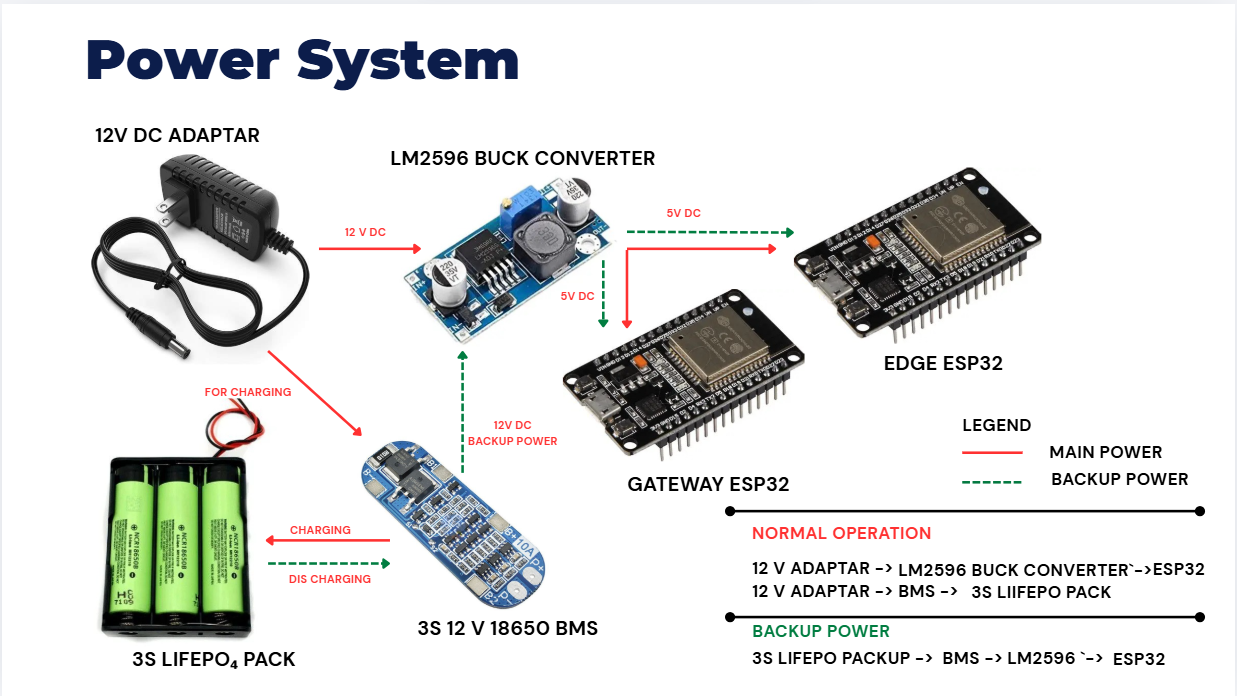
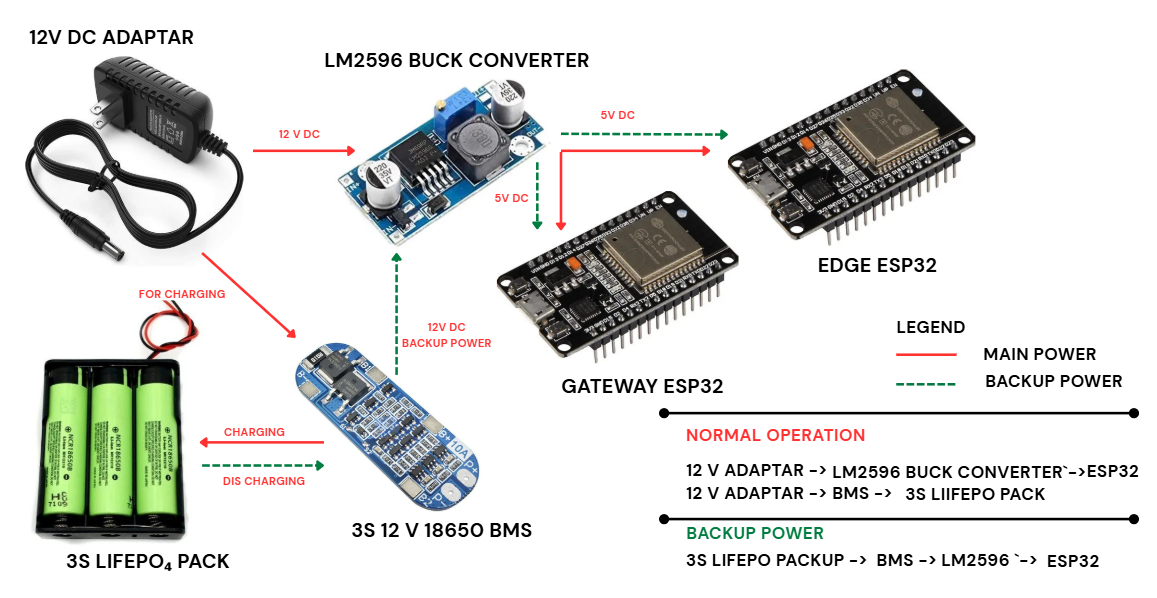
feat: add technology stack documentation and architecture visualization components

diff --git a/src/components/HardwareSoftware.tsx b/src/components/HardwareSoftware.tsx
@@ -1,8 +1,24 @@
 import React, { useState } from 'react';
-import { Cpu, Code2, Lock, Zap } from 'lucide-react';
+import { Cpu, Code2, ChevronLeft, ChevronRight } from 'lucide-react';
 
 export const HardwareSoftware: React.FC = () => {
   const [activeTab, setActiveTab] = useState<'hardware' | 'software'>('hardware');
+  const [powerSlideIndex, setPowerSlideIndex] = useState<number>(0);
+
+  const powerSlides = [
+    {
+      title: 'Hardware Power System Wiring Schematic 1',
+      src: '/assets/device power system/Screenshot 2026-09-07 110119.png'
+    },
+    {
+      title: 'Hardware Power System Wiring Schematic 2',
+      src: '/assets/device power system/Screenshot 2026-09-07 110143.png'
+    },
+    {
+      title: 'Hardware Power System Wiring Schematic 3',
+      src: '/assets/device power system/Screenshot 2026-09-07 110108.png'
+    }
+  ];
 
   const hardwareItems = [
     { name: 'ESP32 Microcontroller', role: 'Edge Core & Gateway', specs: 'Dual-core 240MHz · 5V VIN · 150–200mA' },
@@ -86,19 +102,53 @@ export const HardwareSoftware: React.FC = () => {
               ))}
             </div>
 
-            {/* Power Wiring Schematic */}
-            <div className="bg-slate-50 p-6 rounded-3xl border border-slate-200 shadow-sm">
-              <div className="flex items-center gap-2 text-xs font-bold text-amber-700 uppercase tracking-wider mb-1">
-                <Zap className="w-4 h-4" />
-                Uninterruptible Failover Architecture
+            {/* Power Wiring Schematic & Power Consumption Table Interactive Slider Card */}
+            <div className="bg-slate-50 p-6 sm:p-8 rounded-3xl border border-slate-200 shadow-sm">
+              <div className="mb-4">
+                <h4 className="text-lg font-extrabold text-slate-900">Hardware Power System & Power Consumption Table</h4>
               </div>
-              <h4 className="text-lg font-bold text-slate-900 mb-4">Hardware Power System Schematic</h4>
-              <div className="rounded-2xl overflow-hidden bg-white border border-slate-200">
+
+              {/* Sliding Image Container */}
+              <div className="rounded-2xl overflow-hidden bg-white border border-slate-200 p-2 sm:p-4 relative group">
                 <img
-                  src="/assets/device power system/Screenshot 2026-09-07 110108.png"
-                  alt="CluckNet Power Wiring Schematic"
-                  className="w-full h-auto object-contain max-h-[360px] mx-auto hover:scale-105 transition-transform duration-500"
+                  src={powerSlides[powerSlideIndex].src}
+                  alt={powerSlides[powerSlideIndex].title}
+                  className="w-full h-auto object-contain max-h-[520px] mx-auto hover:scale-[1.01] transition-transform duration-500 rounded-xl"
                 />
+
+                {/* Left Arrow Button */}
+                <button
+                  onClick={() => setPowerSlideIndex((prev) => (prev === 0 ? powerSlides.length - 1 : prev - 1))}
+                  className="absolute left-4 top-1/2 -translate-y-1/2 p-2.5 rounded-full bg-slate-900/60 text-white hover:bg-emerald-600 transition-all shadow-md active:scale-95 backdrop-blur-sm"
+                  title="Previous Diagram"
+                >
+                  <ChevronLeft className="w-5 h-5" />
+                </button>
+
+                {/* Right Arrow Button */}
+                <button
+                  onClick={() => setPowerSlideIndex((prev) => (prev === powerSlides.length - 1 ? 0 : prev + 1))}
+                  className="absolute right-4 top-1/2 -translate-y-1/2 p-2.5 rounded-full bg-slate-900/60 text-white hover:bg-emerald-600 transition-all shadow-md active:scale-95 backdrop-blur-sm"
+                  title="Next Diagram"
+                >
+                  <ChevronRight className="w-5 h-5" />
+                </button>
+
+                {/* Sliding Dot Navigation Indicators */}
+                <div className="flex justify-center items-center gap-2 mt-4 pt-3 border-t border-slate-100">
+                  {powerSlides.map((_, idx) => (
+                    <button
+                      key={idx}
+                      onClick={() => setPowerSlideIndex(idx)}
+                      className={`h-2.5 rounded-full transition-all duration-300 ${
+                        powerSlideIndex === idx
+                          ? 'w-8 bg-emerald-600'
+                          : 'w-2.5 bg-slate-300 hover:bg-slate-400'
+                      }`}
+                      title={`Switch to Diagram ${idx + 1}`}
+                    />
+                  ))}
+                </div>
               </div>
             </div>
           </div>
@@ -126,16 +176,12 @@ export const HardwareSoftware: React.FC = () => {
 
             {/* Security Architecture Diagram */}
             <div className="bg-slate-50 p-6 rounded-3xl border border-slate-200 shadow-sm">
-              <div className="flex items-center gap-2 text-xs font-bold text-emerald-700 uppercase tracking-wider mb-1">
-                <Lock className="w-4 h-4" />
-                Multi-Layer Telemetry Security
-              </div>
               <h4 className="text-lg font-bold text-slate-900 mb-4">Software Security & Auth Architecture</h4>
-              <div className="rounded-2xl overflow-hidden bg-white border border-slate-200">
+              <div className="rounded-2xl overflow-hidden bg-white border border-slate-200 p-2 sm:p-4">
                 <img
                   src="/assets/security.png"
                   alt="CluckNet Security Architecture Diagram"
-                  className="w-full h-auto object-contain max-h-[360px] mx-auto hover:scale-105 transition-transform duration-500"
+                  className="w-full h-auto object-contain max-h-[480px] mx-auto hover:scale-[1.01] transition-transform duration-500 rounded-xl"
                 />
               </div>
             </div>

diff --git a/src/components/SolutionArchitecture.tsx b/src/components/SolutionArchitecture.tsx
@@ -152,16 +152,15 @@ export const SolutionArchitecture: React.FC = () => {
 
         {/* Architecture Diagram Image Box */}
         <div className="bg-white p-4 sm:p-6 rounded-3xl border border-slate-200 mb-12 shadow-sm overflow-hidden">
-          <div className="text-xs font-bold text-slate-500 uppercase tracking-wider mb-4 flex items-center justify-between">
+          <div className="text-xs font-bold text-slate-500 uppercase tracking-wider mb-4">
             <span>Verified System Architecture Diagram</span>
-            <span className="text-emerald-700 font-mono font-bold">AWS IoT Core + Spring Boot</span>
           </div>
 
-          <div className="rounded-2xl overflow-hidden bg-slate-50 border border-slate-200">
+          <div className="rounded-2xl overflow-hidden bg-slate-50 border border-slate-200 p-2 sm:p-4">
             <img
               src="/assets/system architecture.png"
               alt="CluckNet System Architecture Diagram"
-              className="w-full h-auto object-contain max-h-[460px] mx-auto hover:scale-[1.01] transition-transform duration-500"
+              className="w-full h-auto object-contain max-h-[520px] mx-auto hover:scale-[1.01] transition-transform duration-500 rounded-xl"
             />
           </div>
         </div>
@@ -183,8 +182,7 @@ export const SolutionArchitecture: React.FC = () => {
                     : `bg-white border-slate-200 shadow-sm ${node.hoverClass}`
                 }`}
               >
-                <div className="flex items-center justify-between mb-3">
-                  <span className="text-xs font-mono font-bold text-slate-400">{node.step}</span>
+                <div className="flex items-center justify-end mb-3">
                   <span className="text-[10px] font-bold px-2 py-0.5 rounded bg-slate-100 text-slate-700 border border-slate-200">
                     {node.badge}
                   </span>
@@ -258,7 +256,7 @@ export const SolutionArchitecture: React.FC = () => {
                   }`}
               >
                 <div className="font-extrabold text-slate-900 text-base sm:text-lg mb-2">
-                  1. Real-Time Environmental Sensing
+                  Real-Time Environmental Sensing
                 </div>
                 <div className="text-sm sm:text-base text-slate-700 font-medium leading-relaxed">
                   Continuous sampling of temp, humidity, NH₃ ammonia, and LPG fuel gas.
@@ -275,7 +273,7 @@ export const SolutionArchitecture: React.FC = () => {
                   }`}
               >
                 <div className="font-extrabold text-slate-900 text-base sm:text-lg mb-2">
-                  2. Intelligent Edge Detection
+                  Intelligent Edge Detection
                 </div>
                 <div className="text-sm sm:text-base text-slate-700 font-medium leading-relaxed">
                   ESP32 microcontrollers process drift limits locally at sub-second speeds.
@@ -292,7 +290,7 @@ export const SolutionArchitecture: React.FC = () => {
                   }`}
               >
                 <div className="font-extrabold text-slate-900 text-base sm:text-lg mb-2">
-                  3. Smart Automated Physical Response
+                  Smart Automated Physical Response
                 </div>
                 <div className="text-sm sm:text-base text-slate-700 font-medium leading-relaxed">
                   Local acoustic alarm & 180° servo motor turning physical gas regulator valve off.

diff --git a/src/components/TechnologySection.tsx b/src/components/TechnologySection.tsx
@@ -195,11 +195,11 @@ export const TechnologySection: React.FC = () => {
                 </div>
               </div>
 
-              <div className="rounded-2xl overflow-hidden bg-slate-950 border border-white/10 mb-6">
+              <div className="rounded-2xl overflow-hidden bg-slate-950 border border-white/10 mb-6 p-2">
                 <img
                   src="/assets/security.png"
                   alt="CluckNet System Security Diagram"
-                  className="w-full h-auto object-contain max-h-[280px] mx-auto hover:scale-105 transition-transform duration-500"
+                  className="w-full h-auto object-contain max-h-[380px] mx-auto hover:scale-[1.01] transition-transform duration-500 rounded-xl"
                 />
               </div>
 

diff --git a/dist/index.html b/dist/index.html
@@ -13,8 +13,8 @@
   <link rel="preconnect" href="https://fonts.gstatic.com" crossorigin>
   <link href="https://fonts.googleapis.com/css2?family=Plus+Jakarta+Sans:wght@300;400;500;600;700;800&display=swap"
     rel="stylesheet">
-  <script type="module" crossorigin src="/assets/index-Di_TfDmq.js"></script>
-  <link rel="stylesheet" crossorigin href="/assets/index-fWLXdgWl.css">
+  <script type="module" crossorigin src="/assets/index-BJwH1o68.js"></script>
+  <link rel="stylesheet" crossorigin href="/assets/index-BY6uuqCC.css">
 </head>
 
 <body
